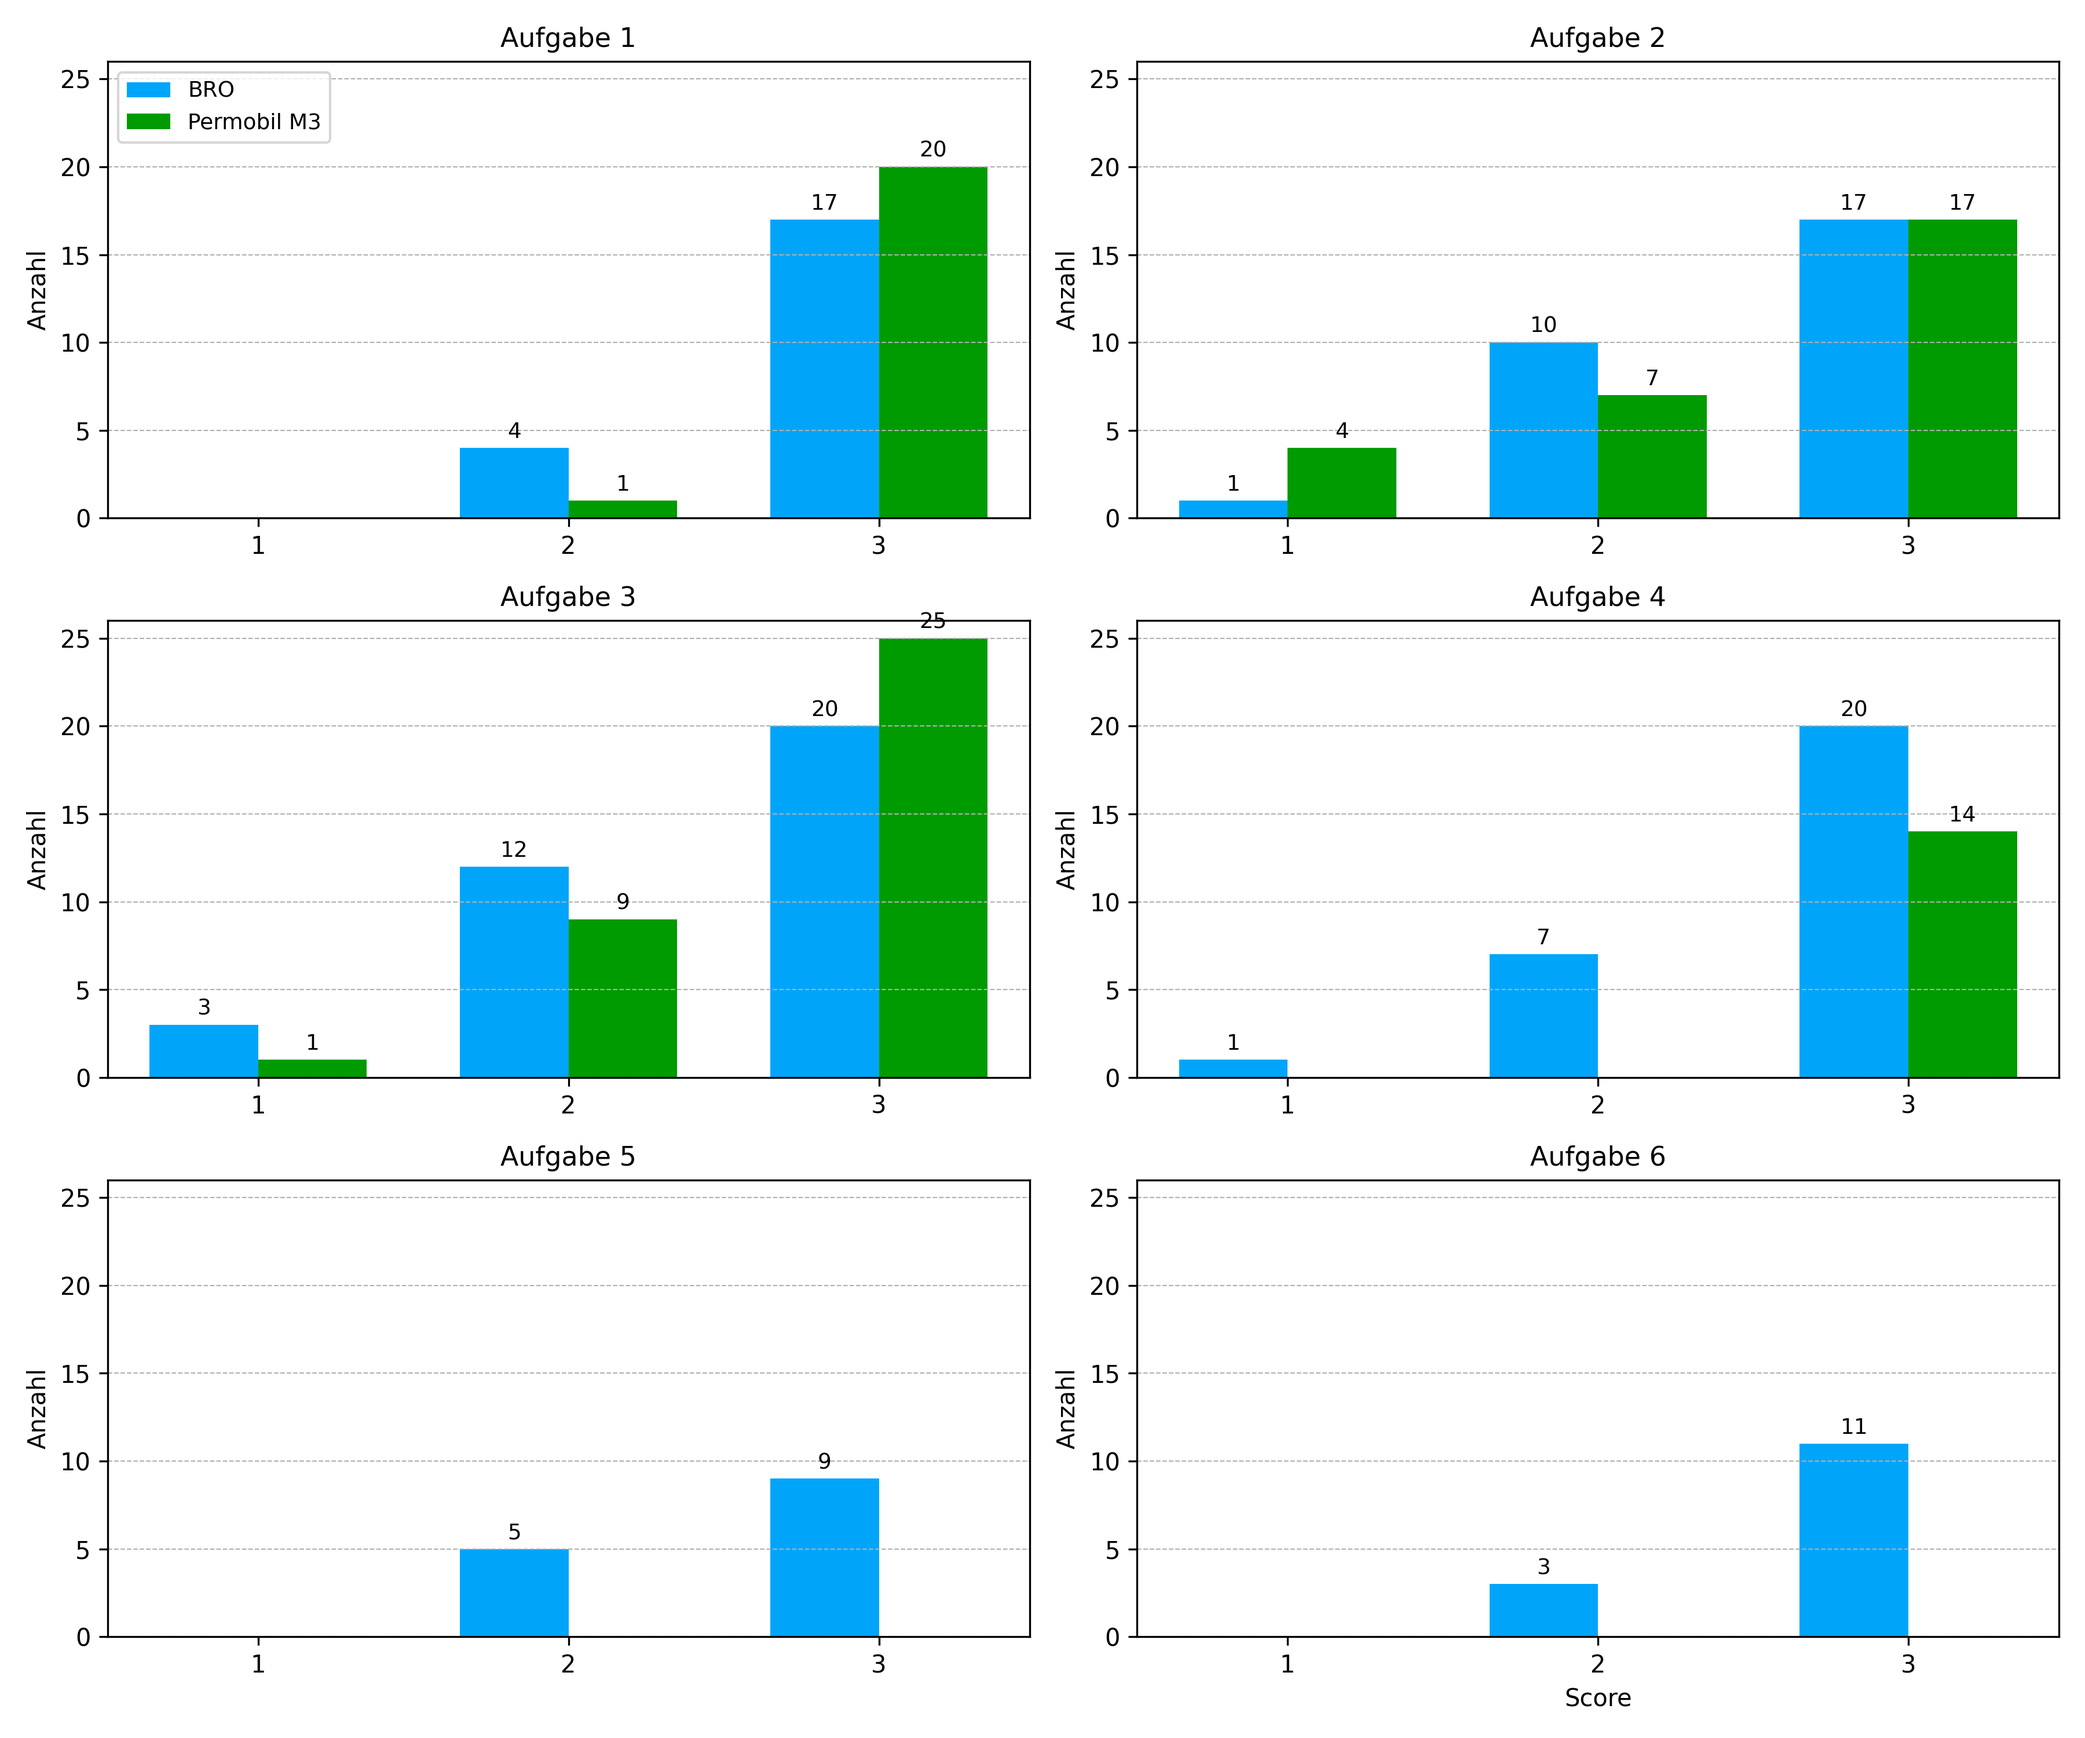
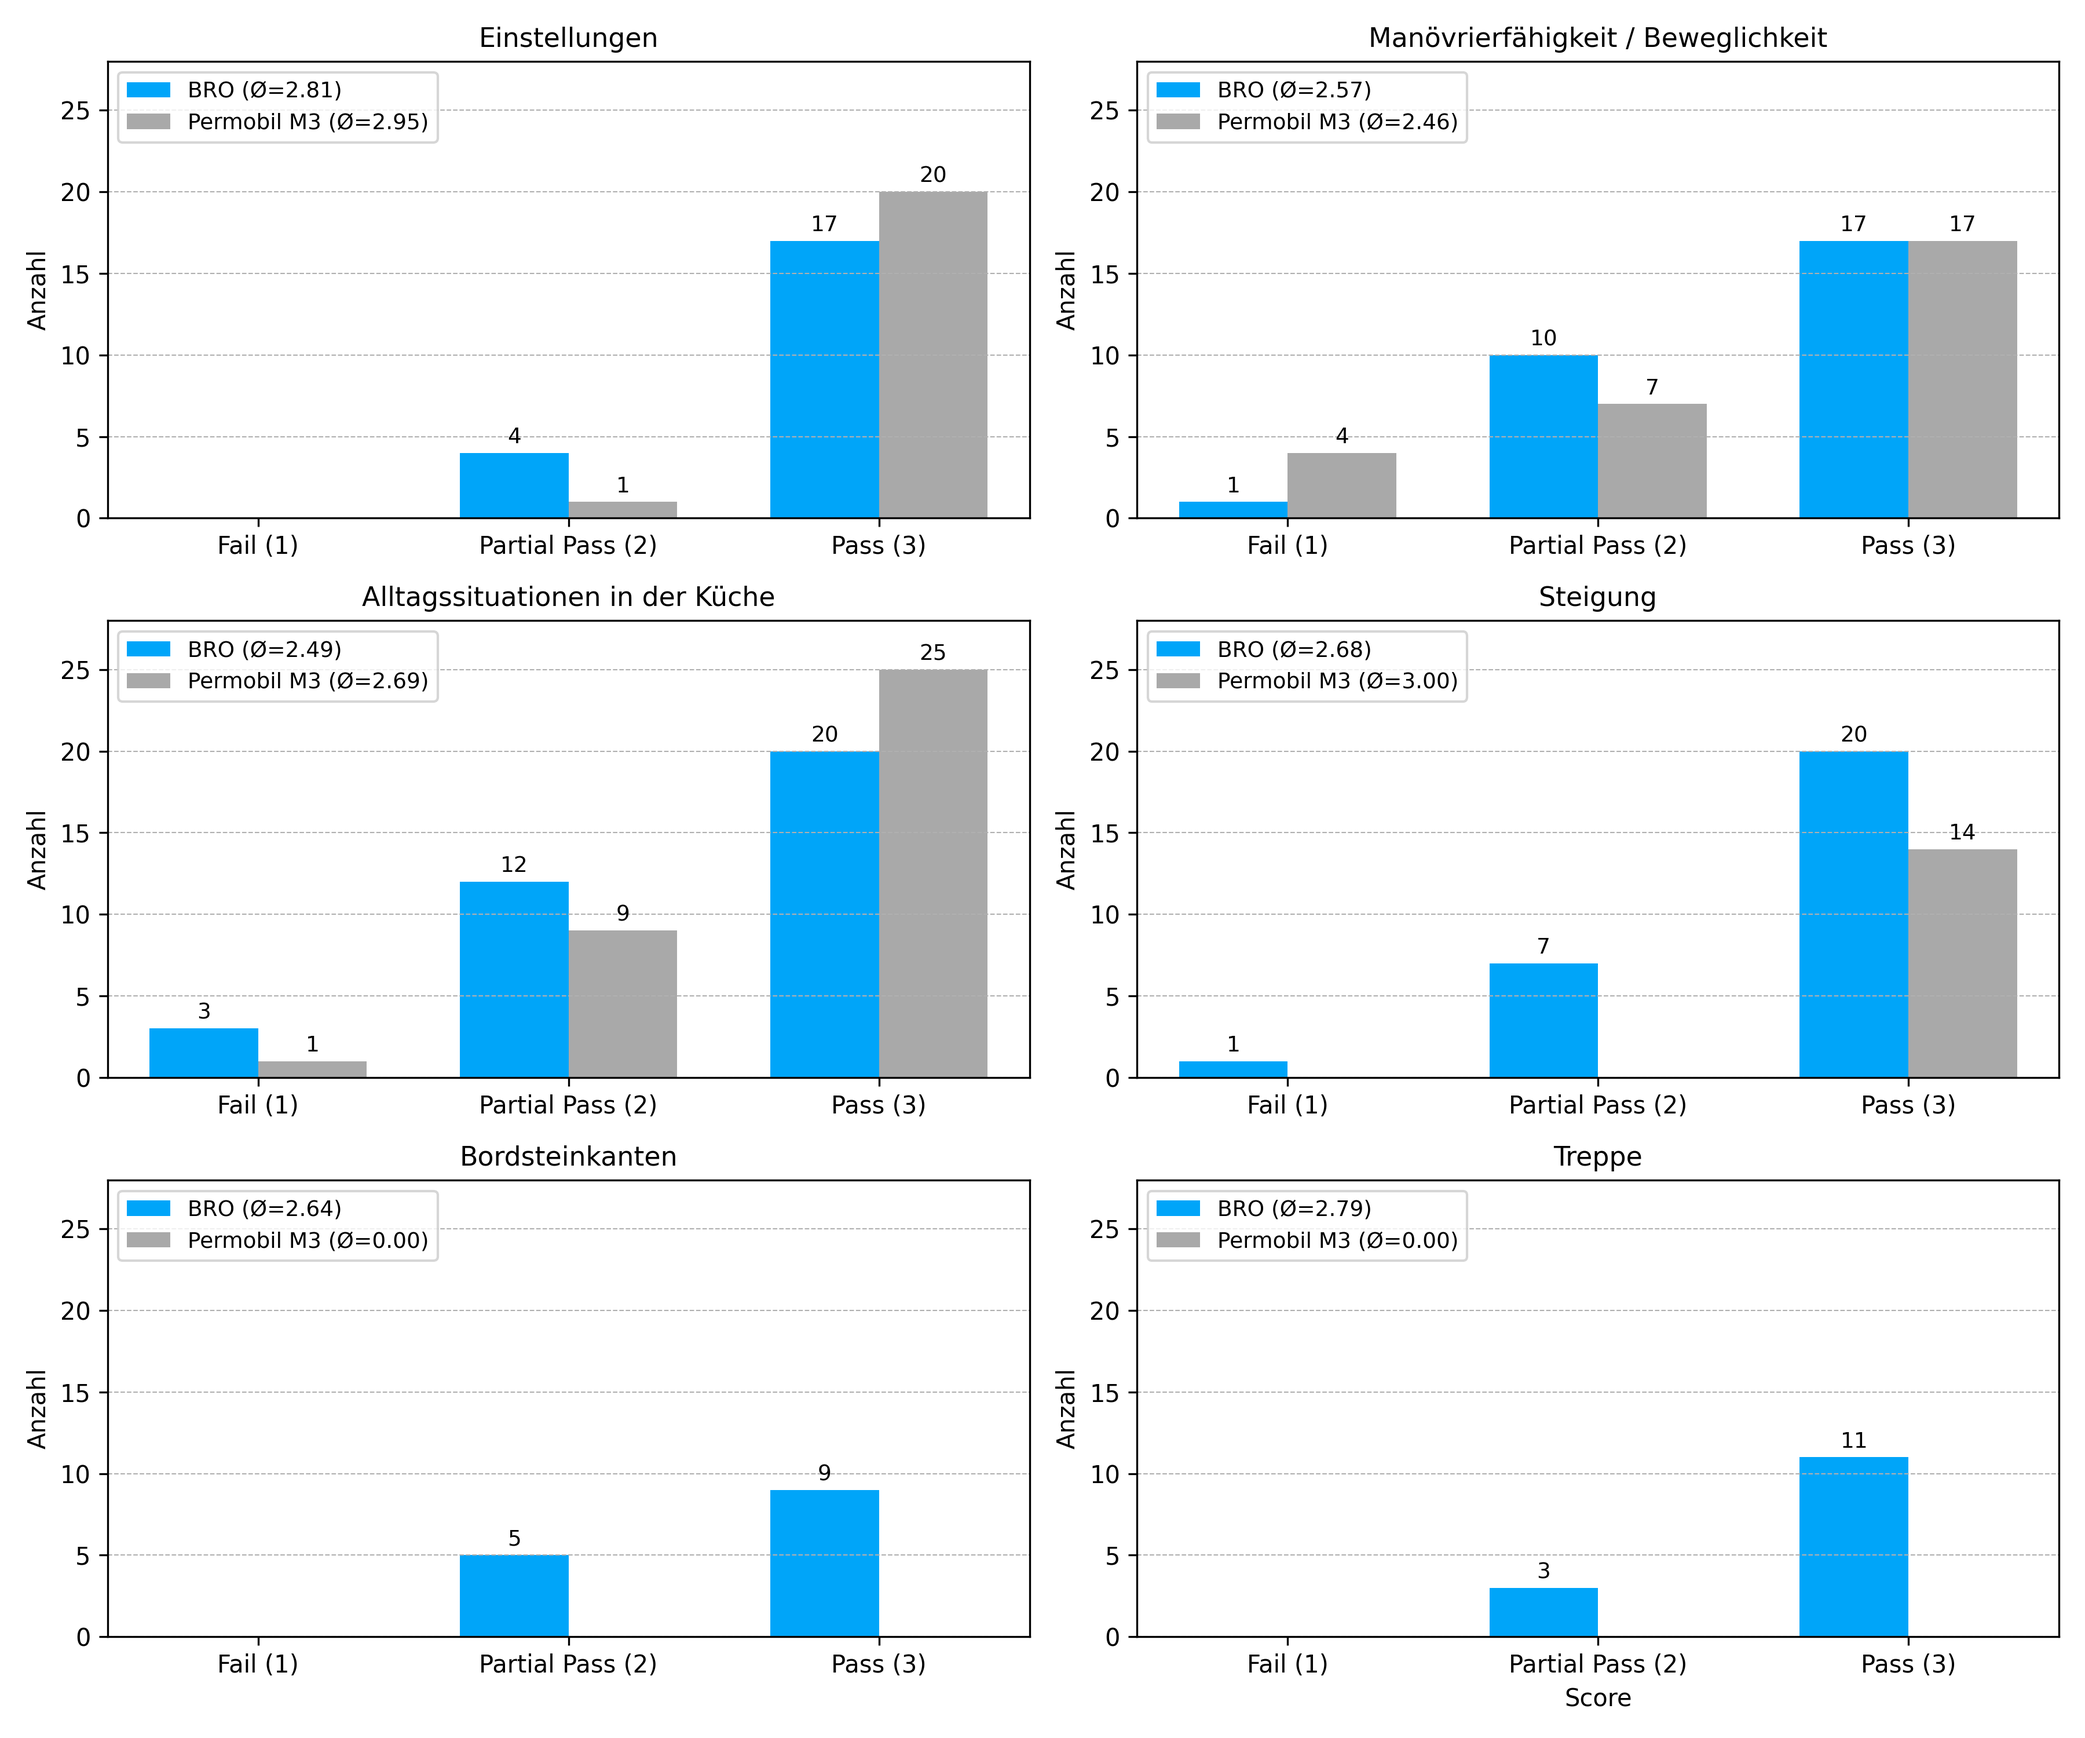
formatierungen Plots

diff --git a/Code/ad-interim 2.py b/Code/ad-interim 2.py
@@ -35,7 +35,7 @@ combined_scores = pd.concat([scores_set1, scores_set2], ignore_index=True)
 combined_scores_clean = combined_scores.dropna()
 
 # === Plot-Einstellungen ===
-color_map = {'BRO': (0/255, 165/255, 249/255), 'Permobil M3': (0/255, 155/255, 0/255)}
+color_map = {'BRO': (0/255, 165/255, 249/255), 'Permobil M3': (169/255, 169/255, 169/255)}
 score_names = ['total_score', 'competence_score', 'adaptability_score', 'self_esteem_score']
 
 # Einheitlicher Y-Achsenbereich
@@ -117,7 +117,7 @@ ssi_titles = {
     'SSI_10': 'Sicherheit'
 }
 
-bar_colors = {'BRO': (0/255, 165/255, 249/255), 'Permobil M3': (0/255, 155/255, 0/255)}
+bar_colors = {'BRO': (0/255, 165/255, 249/255), 'Permobil M3': (169/255, 169/255, 169/255)}
 
 # --- Maximalwert über alle Kombinationen finden ---
 max_count = 0
@@ -132,44 +132,64 @@ for item in ssi_items:
 y_max = int(np.ceil(max_count + 1))
 
 # --- Plots ---
-fig, axs = plt.subplots(2, 4, figsize=(20, 10))
+# --- Plots ---
+fig, axs = plt.subplots(1, 4, figsize=(20, 5))  # Nur eine Zeile, vier Spalten für die SSI-Items
 
 for col_idx, item in enumerate(ssi_items):
-    for row_idx, version in enumerate(['BRO', 'Permobil M3']):
-        ax = axs[row_idx, col_idx]
+    ax = axs[col_idx]
+
+    bar_width = 0.4
+    score_range = range(1, 8)
+
+    # Durchschnittswerte initialisieren
+    mean_values = {}
+
+    for i, version in enumerate(['BRO', 'Permobil M3']):
         version_data = ssi_combined_clean[ssi_combined_clean['Version'] == version][item]
         value_counts = version_data.value_counts().sort_index()
 
-        for score in range(0, 8):
+        # Fehlende Scores mit 0 auffüllen
+        for score in score_range:
             if score not in value_counts.index:
                 value_counts.loc[score] = 0
         value_counts = value_counts.sort_index()
 
-        ax.bar(value_counts.index, value_counts.values, color=bar_colors[version])
+        # Mittelwert berechnen
+        total = sum(score * count for score, count in zip(value_counts.index, value_counts.values))
+        n_version = value_counts.sum()
+        mean = total / n_version if n_version > 0 else 0
+        mean_values[version] = mean
 
-        n = int(value_counts.sum())
-        ax.set_title(f"{ssi_titles[item]} – {version} (n={n})")
+        # X-Position leicht verschieben je nach Version
+        x = [s + (i - 0.5) * bar_width for s in score_range]
+        ax.bar(x, value_counts.values, width=bar_width, label=f"{version} (Ø={mean:.2f})", color=bar_colors[version])
 
-        ax.set_xlim(-0.5, 7.5)
-        ax.set_ylim(0, y_max)
-        ax.set_xticks(range(0, 8))
-        ax.set_yticks(range(0, y_max + 1))  # Nur ganze Zahlen
-        ax.set_xlabel('Score')
-        ax.set_ylabel('Anzahl')
-        ax.grid(True, axis='y', linestyle='--', linewidth=0.5)
+    # Formatierung
+    n = int(ssi_combined_clean[item].count() / 2)  # n pro Version
+    ax.set_title(f"{ssi_titles[item]} (n={n})")
+    ax.set_xlim(0.5, 7.5)
+    ax.set_ylim(0, y_max)
+    ax.set_xticks(score_range)
+    ax.set_xlabel('Score')
+    ax.set_ylabel('Anzahl')
+    ax.grid(True, axis='y', linestyle='--', linewidth=0.5)
+
+    # Legende mit Mittelwerten
+    ax.legend(loc='upper left', fontsize=9)
 
 plt.tight_layout()
 
 # Speichern
-# === SSI-Balkenplots speichern im Output-Ordner ===
-split_named_bar_path = os.path.join(base_dir, "../Output", "ssi_stacked_barplots_split_named.png")
-plt.savefig(split_named_bar_path, dpi=300)
+combined_bar_path = os.path.join(base_dir, "../Output", "ssi_grouped_barplots_combined.png")
+plt.savefig(combined_bar_path, dpi=300)
 plt.close()
-print(f"SSI-Barplots gespeichert unter: {split_named_bar_path}")
+print(f"Gruppierte SSI-Barplots mit Mittelwerten gespeichert unter: {combined_bar_path}")
+
+
 
 # === Gruppierte Barplots für Aufgaben 1–6 mit korrekt zugewiesenen Scores ===
 
-color_map = {'BRO': (0/255, 165/255, 249/255), 'Permobil M3': (0/255, 155/255, 0/255)}
+color_map = {'BRO': (0/255, 165/255, 249/255), 'Permobil M3': (169/255, 169/255, 169/255)}
 
 fig, axs = plt.subplots(3, 2, figsize=(12, 10))  # 3 Zeilen, 2 Spalten
 axs = axs.flatten()
@@ -212,19 +232,42 @@ for task_num in range(1, 7):
     global_max = max(global_max, score_counts.values.max())
     score_data_per_task.append((task_num, score_counts))
 
+# Neue Titel definieren
+task_titles = [
+    "Einstellungen",
+    "Manövrierfähigkeit / Beweglichkeit",
+    "Alltagssituationen in der Küche",
+    "Steigung",
+    "Bordsteinkanten",
+    "Treppe"
+]
+
 # Schritt 2: Plots erstellen mit einheitlicher y-Achse
 for i, (task_num, score_counts) in enumerate(score_data_per_task):
     ax = axs[i]
     width = 0.35
     x = np.arange(len(score_counts.index))
 
+    # Balken zeichnen
     bars_bro = ax.bar(x - width/2, score_counts['BRO'], width, label='BRO', color=color_map['BRO'])
     bars_m3 = ax.bar(x + width/2, score_counts['Permobil M3'], width, label='Permobil M3', color=color_map['Permobil M3'])
 
-    ax.set_title(f'Aufgabe {task_num}', fontsize=11)
+    # Mittelwertberechnung
+    bro_total = sum(score * count for score, count in zip(score_counts.index, score_counts['BRO']))
+    bro_n = score_counts['BRO'].sum()
+    mean_bro = bro_total / bro_n if bro_n > 0 else 0
+
+    m3_total = sum(score * count for score, count in zip(score_counts.index, score_counts['Permobil M3']))
+    m3_n = score_counts['Permobil M3'].sum()
+    mean_m3 = m3_total / m3_n if m3_n > 0 else 0
+
+    # Angepasster Titel
+    ax.set_title(task_titles[i], fontsize=11)
+
+    # Achsen
     ax.set_xticks(x)
-    ax.set_xticklabels(['1', '2', '3'], fontsize=10)
-    ax.set_ylim(0, global_max + 1)
+    ax.set_xticklabels(['Fail (1)', 'Partial Pass (2)', 'Pass (3)'], fontsize=10)
+    ax.set_ylim(0, global_max + 3)
     ax.set_yticks(list(range(0, global_max + 5, 5)))
     ax.set_ylabel('Anzahl', fontsize=10)
     ax.grid(True, axis='y', linestyle='--', linewidth=0.5)
@@ -235,12 +278,19 @@ for i, (task_num, score_counts) in enumerate(score_data_per_task):
         if height > 0:
             ax.text(bar.get_x() + bar.get_width() / 2, height + 0.3, f"{int(height)}", ha='center', va='bottom', fontsize=9)
 
-axs[-1].set_xlabel('Score', fontsize=10)
-axs[0].legend(loc='upper left', fontsize=9)
+    # Legende mit Mittelwerten
+    ax.legend(
+        [f'BRO (Ø={mean_bro:.2f})', f'Permobil M3 (Ø={mean_m3:.2f})'],
+        loc='upper left',
+        fontsize=9
+    )
 
+# Beschriftung unten rechts
+axs[-1].set_xlabel('Score', fontsize=10)
 plt.tight_layout()
 output_path = os.path.join(base_dir, "../Output", "task1to6_score_grouped_barplot_corrected.png")
 plt.savefig(output_path, dpi=300)
 plt.close()
 
-print(f"KORREKTER Score-Barplot (BRO vs. Permobil M3) gespeichert unter: {output_path}")
+print(f"KORREKTER Score-Barplot (BRO vs. Permobil M3) mit Mittelwerten gespeichert unter: {output_path}")
+
